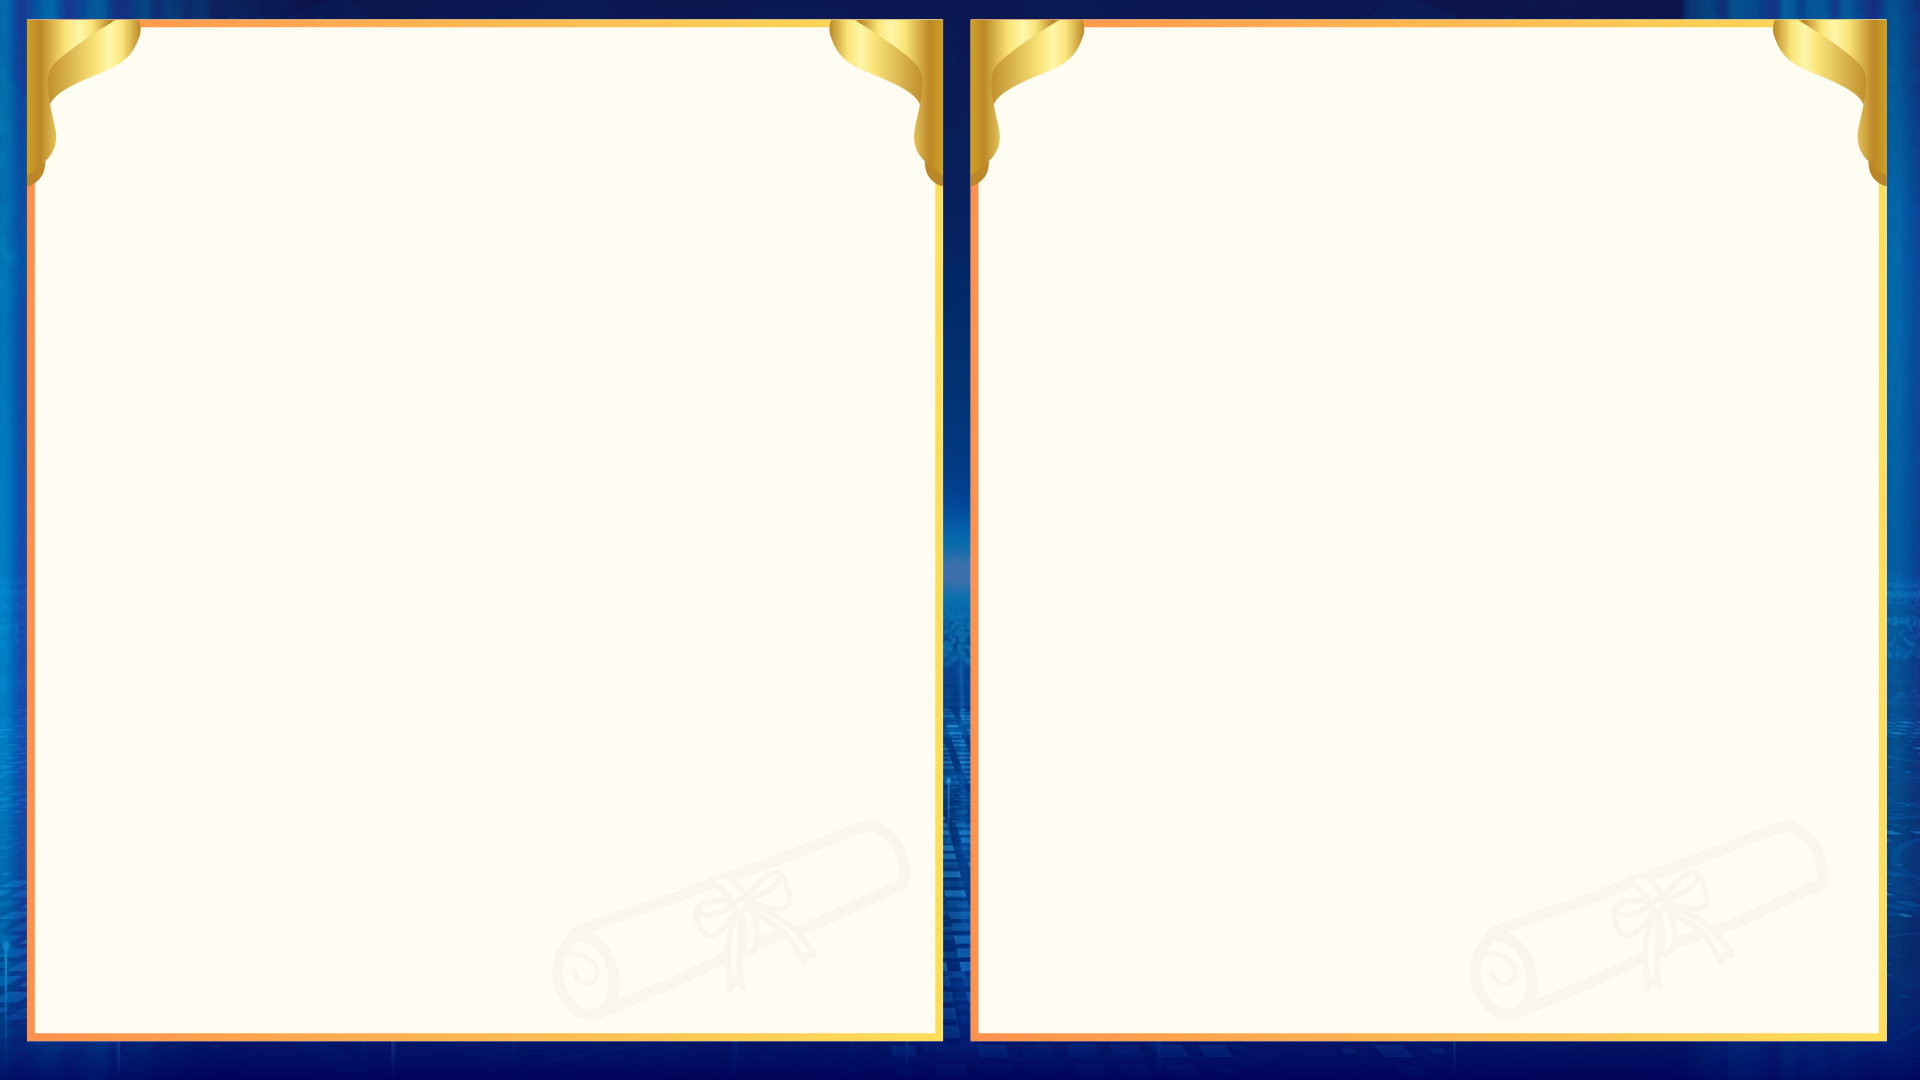
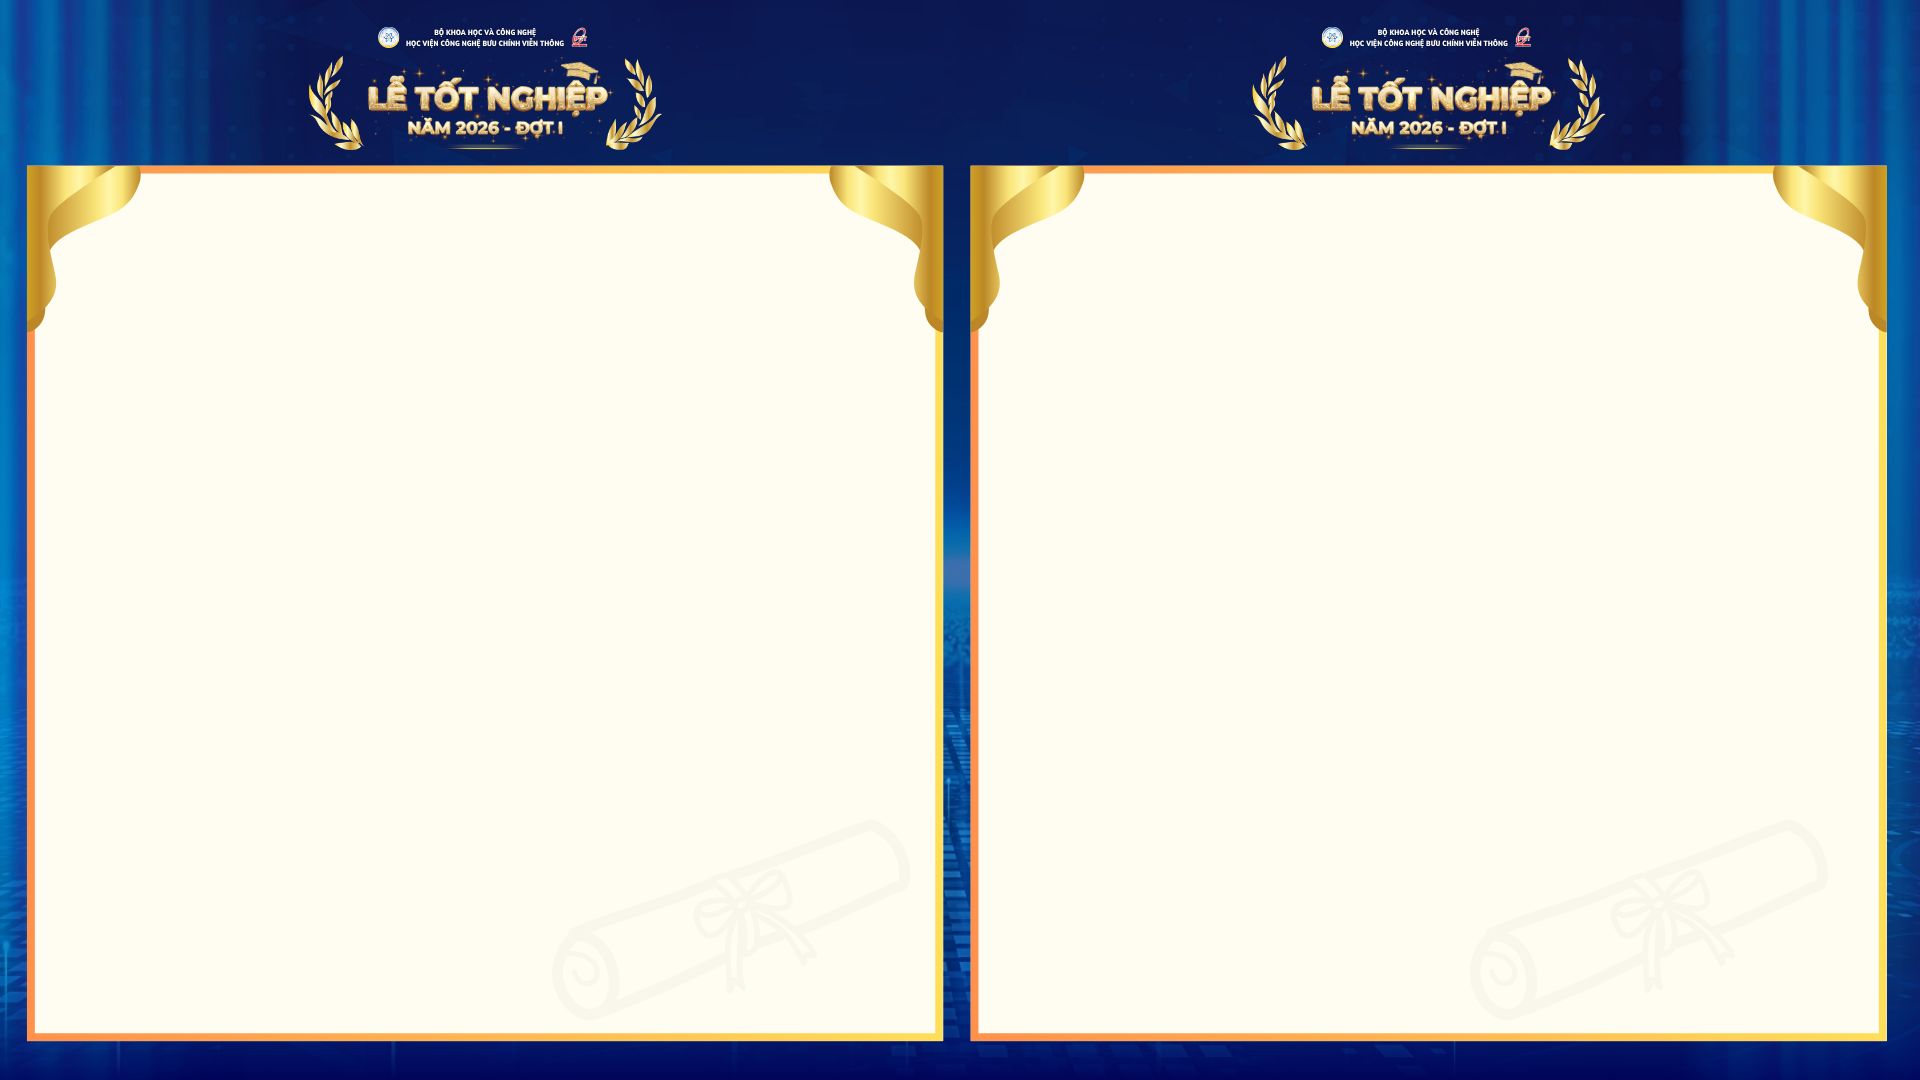
upda

Changed region(s): [[0.0, 0.0, 1.0, 0.3056]]

diff --git a/src/styles/recognition.css b/src/styles/recognition.css
@@ -23,7 +23,7 @@
   min-height: 100vh;
   min-height: 100dvh;
   gap: clamp(12px, 1.25vw, 24px);
-  padding: clamp(16px, 1.85vh, 20px) clamp(20px, 2.08vw, 40px);
+  padding: clamp(56px, 7vh, 88px) clamp(20px, 2.08vw, 40px) clamp(16px, 1.85vh, 20px);
   box-sizing: border-box;
 }
 
@@ -66,22 +66,23 @@
   background: transparent;
   border: none;
   border-radius: 0;
-  padding: clamp(10px, 1.1vh, 14px) clamp(14px, 1.45vw, 24px);
+  padding: clamp(32px, 4vh, 48px) clamp(14px, 1.45vw, 24px) clamp(10px, 1.1vh, 14px);
   display: flex;
   flex-direction: row;
   align-items: stretch;
   justify-content: flex-start;
-  gap: clamp(14px, 1.5vw, 24px);
+  gap: clamp(6px, 0.65vw, 10px);
   box-shadow: none;
 }
 
 .grad-template__photo {
   aspect-ratio: 4 / 6;
-  height: 72%;
+  height: 66%;
   width: auto;
   min-height: 0;
   flex-shrink: 0;
   align-self: center;
+  margin-left: clamp(12px, 2.2vw, 36px);
   border: clamp(2px, 0.21vw, 4px) solid #fff;
   border-radius: 4px;
   overflow: hidden;